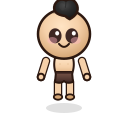
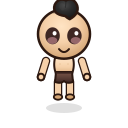
Adjust face proportions: wider eyes, bigger pupils, lower mouth
- Eyes spread wider apart (0.32 → 0.42 radius offset) toward ears
- Eye size increased (7.5 → 8.5) for wise/impressive look
- Mouth moved down toward chin (0.38 → 0.58) to avoid crowding eyes
- Face now has proper spacing between features

https://claude.ai/code/session_015pMPoBHWnGv3b918Z49D2y

Changed region(s): [[0.3438, 0.1875, 0.6562, 0.4375]]

diff --git a/src/templates/chibi_parts.js b/src/templates/chibi_parts.js
@@ -133,10 +133,10 @@ function chibiHead(opts = {}) {
   // Mặc định: mắt MỞ TO, tròn, long lanh (anime-style big eyes)
   // Chỉ nhắm khi blink hoặc hurt
   body += `    <!-- Eyes -->\n`;
-  const eyeL = cx - r * 0.32;
-  const eyeR = cx + r * 0.32;
+  const eyeL = cx - r * 0.42;   // xa nhau hơn, gần tai
+  const eyeR = cx + r * 0.42;
   const eyeY = cy + r * 0.05;
-  const eyeSize = 7.5;
+  const eyeSize = 8.5;          // to hơn, ấn tượng thông thái
 
   if (expr === 'blink') {
     // Mắt nhắm (chớp mắt — đường cong nhẹ)
@@ -179,7 +179,7 @@ function chibiHead(opts = {}) {
 
   // ── Miệng ──
   body += `    <!-- Mouth -->\n`;
-  const mouthY = cy + r * 0.38;
+  const mouthY = cy + r * 0.58;  // xuống gần cằm hơn
 
   if (expr === 'happy' || expr === 'celebrate') {
     // Cười cute — đường cong đơn giản, không fill đỏ
